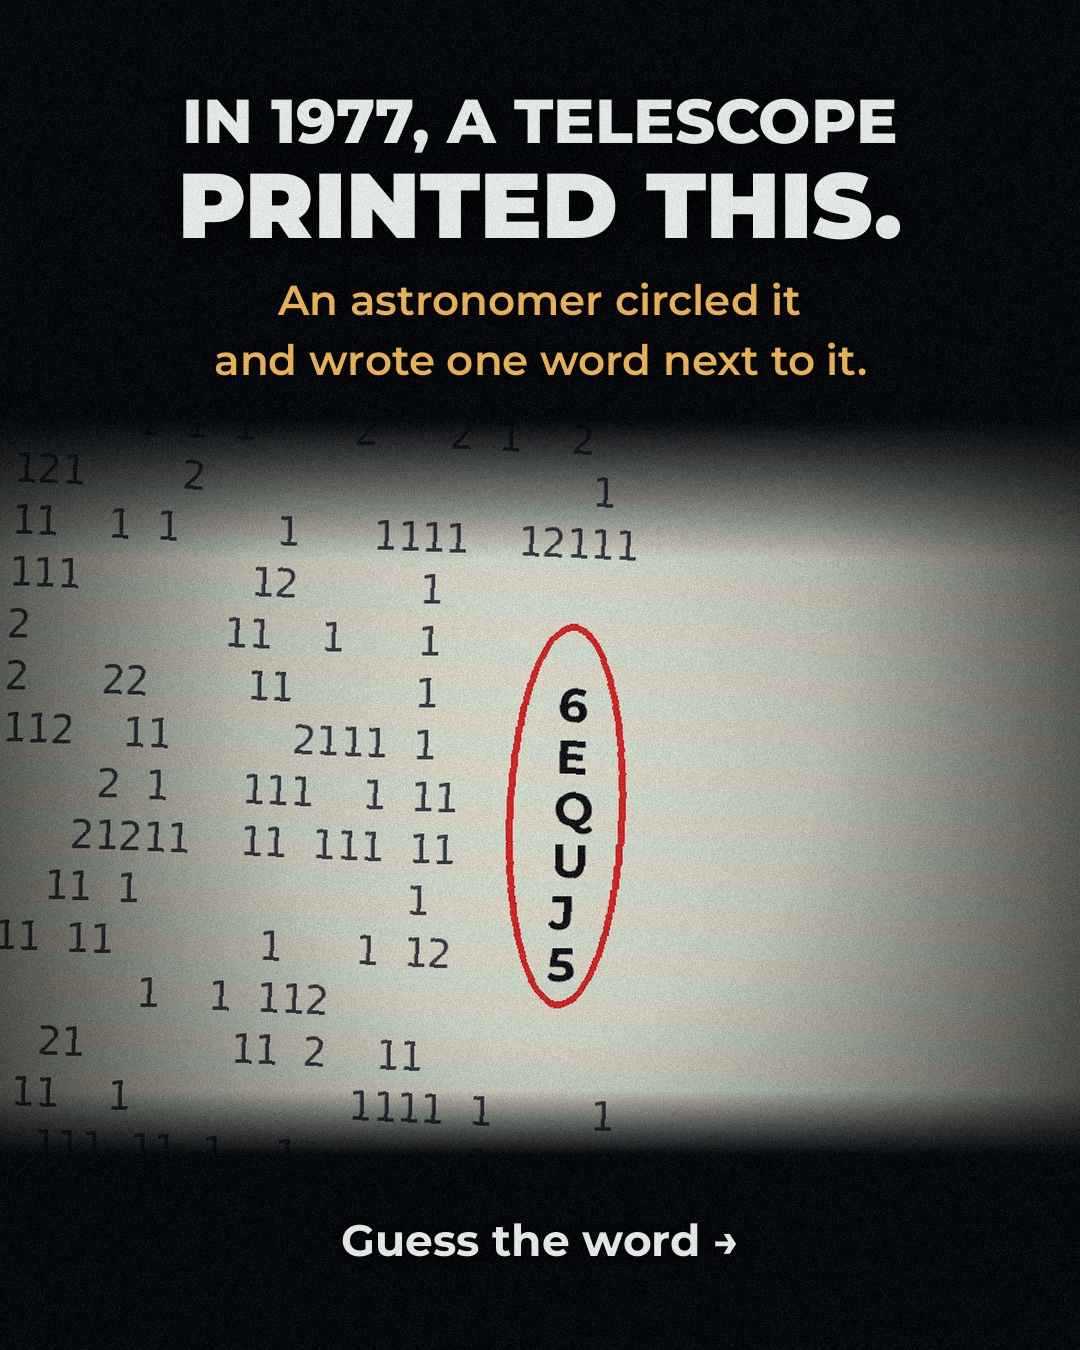
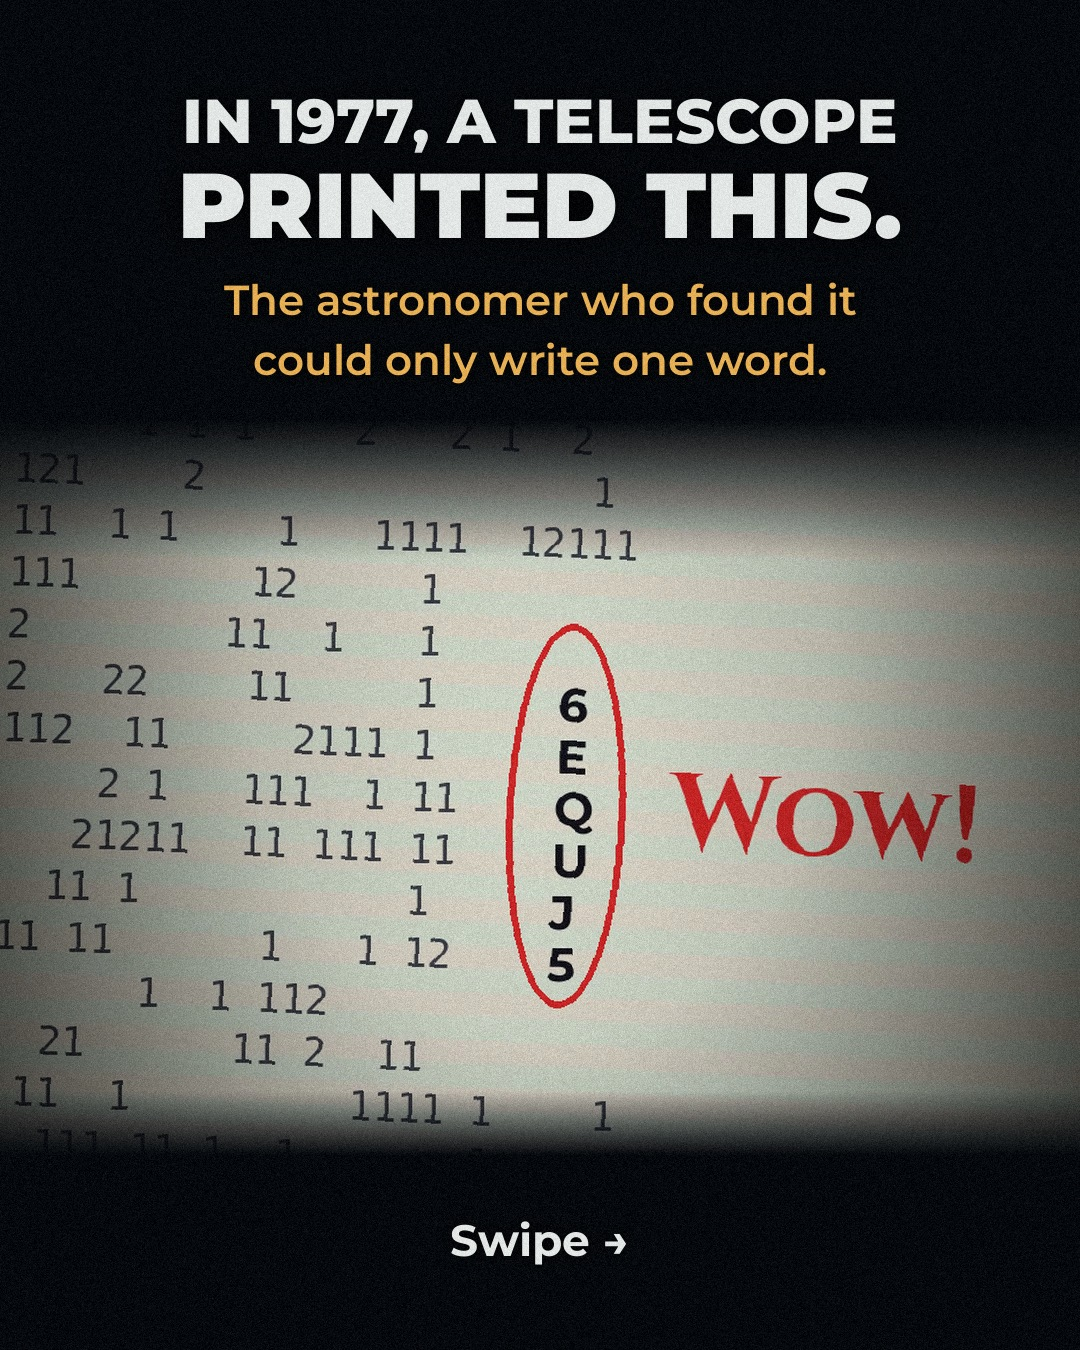
Teaser carousel: reveal Wow! on slide 1 (complete story, no guessing)
Claude-Session: https://claude.ai/code/session_01JMNgZUr1LX5SEDfS7KQBiY

Changed region(s): [[0.1833, 0.1867, 0.7944, 0.28], [0.6111, 0.56, 0.9167, 0.6533], [0.3056, 0.9022, 0.7028, 0.9333]]

diff --git a/scripts/teaser_wow.py b/scripts/teaser_wow.py
@@ -51,16 +51,16 @@ def para(im, y, s, size, fill, weight=500, maxw=900, lh=1.35):
 
 
 # 1. The printout: what is this?
-src = Image.open(os.path.join(ST, "out", "thumb", "g02v_nowow.png")).convert("RGB")
+src = Image.open(os.path.join(ST, "out", "thumb", "g02v_10.5.png")).convert("RGB")
 im = src.crop((0, 200, 1080, 200 + H))
 im = shade(im, vignette=0.5)
 fade_band(im, 0, 560)
 fade_band(im, H - 260, H, top=False)
 text(im, (W // 2, 120), "IN 1977, A TELESCOPE", 62, IVORY, 800)
 text(im, (W // 2, 205), "PRINTED THIS.", 92, IVORY, 900)
-text(im, (W // 2, 300), "An astronomer circled it", 42, AMBER, 600)
-text(im, (W // 2, 360), "and wrote one word next to it.", 42, AMBER, 600)
-text(im, (W // 2, H - 110), "Guess the word →", 44, IVORY, 700)
+text(im, (W // 2, 300), "The astronomer who found it", 42, AMBER, 600)
+text(im, (W // 2, 360), "could only write one word.", 42, AMBER, 600)
+text(im, (W // 2, H - 110), "Swipe →", 44, IVORY, 700)
 save(grain(im, 5), "01_printout.jpg")
 
 # 2. Decoder: what the six characters mean.
